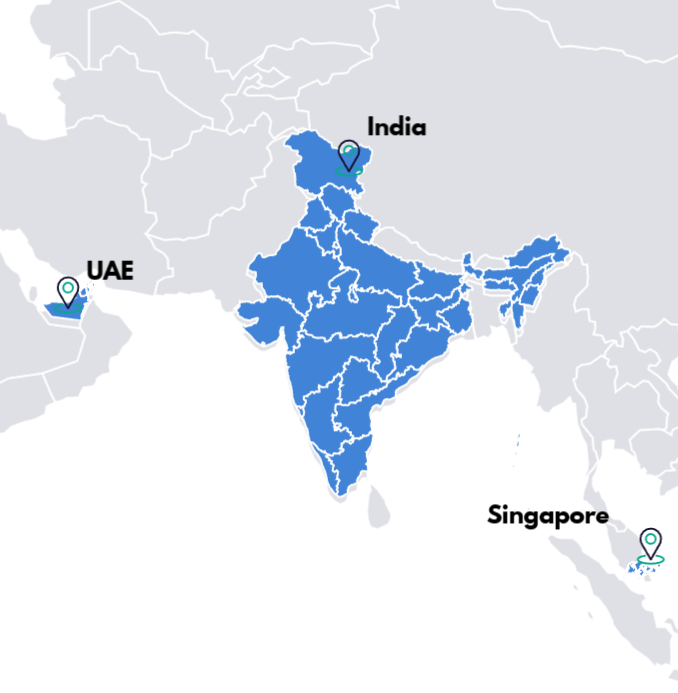
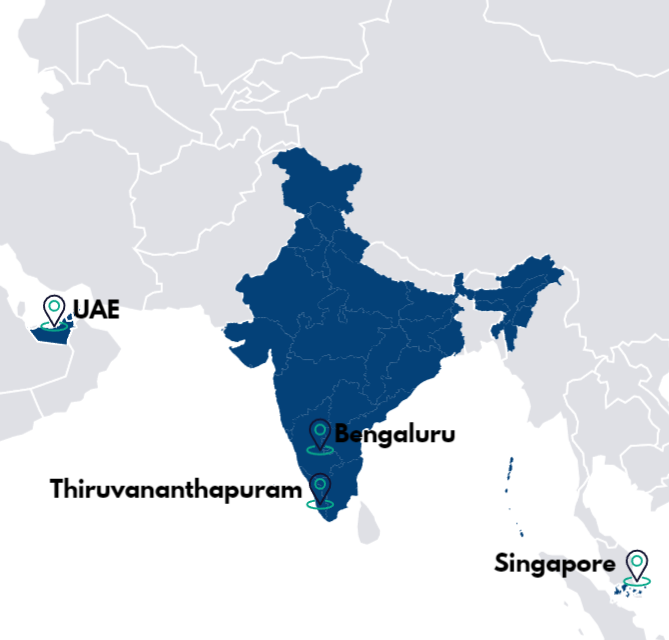
optimized website color selection

diff --git a/src/Components/Jobs.js b/src/Components/Jobs.js
@@ -20,11 +20,12 @@ class Jobs extends Component {
                                 base, we offer associates a chance to drive change and
                                 improve the lives of millions of people arount the world.
                             </div>
-                            <hr className="pb-2"></hr>
-                            <h5 style={{fontWeight: "bold"}}>India <img src='assets/images/diamond.svg' width='20px' height='20px' alt='img' /></h5>
-                            <h6 style={{textDecoration: "underline"}}>Bengaluru</h6>
-                            <h6 className="pb-3" style={{textDecoration: "underline"}}>Thiruvananthapuram</h6>
-                            <h5 className="pb-2" style={{fontWeight: "bold"}}>Singapore <img src='assets/images/diamond.svg' width='20px' height='20px' alt='img' /></h5>
+                            <hr className="pb-3"></hr>
+                            <h5 className="pb-2" style={{fontWeight: "bold"}}>India </h5>
+                            <h6><a href="#">Bengaluru<img src='assets/images/diamond.svg' width='20px' height='20px' alt='img' /></a></h6>
+                            <h6 className="pb-2"><a href="#">Thiruvananthapuram<img src='assets/images/diamond.svg' width='20px' height='20px' alt='img' /></a></h6>
+                            <h5 className="pb-2" style={{fontWeight: "bold"}}>Singapore</h5>
+                            <h6><a href="#">Singapore<img src='assets/images/diamond.svg' width='20px' height='20px' alt='img' /></a></h6>
 
                         </div>
 

diff --git a/public/assets/css/company.css b/public/assets/css/company.css
@@ -27,14 +27,6 @@
     position: relative;
 }
 
-/* Timeline CSS */
-button {
-    background: transparent;
-    border: none;
-    cursor: pointer;
-    outline: none;
-}
-
 /* .section SECTION
 –––––––––––––––––––––––––––––––––––––––––––––––––– */
 
@@ -74,8 +66,8 @@ button {
     display: inline-block;
     list-style-type: none;
     width: 200px;
-    height: 3px;
-    background: #fff;
+    height: 4px;
+    background: #034078;
 }
 
 .timeline ol li:last-child {
@@ -92,11 +84,12 @@ button {
     top: 50%;
     left: calc(100% + 1px);
     bottom: 0;
-    width: 12px;
-    height: 12px;
+    width: 15px;
+    height: 15px;
     transform: translateY(-50%);
     border-radius: 50%;
-    background: #034078;
+    background-color: white;;
+    border: 3px solid #034078;
 }
 
 .timeline ol li div {
@@ -254,7 +247,7 @@ button {
   content: '';
   position: absolute;
   width: 6px;
-  background-color: white;
+  background-color: #034078;
   top: 0;
   bottom: 0;
   left: 50%;

diff --git a/src/Components/Team.js b/src/Components/Team.js
@@ -27,7 +27,7 @@ class Team extends Component {
                                         <CImage className="carousel-img" src="assets/images/slide1.jpg" alt="slide 1" />
                                     </CCarouselItem>
                                     <CCarouselItem className="carousel-item">
-                                        <CImage className="carousel-img" src="assets/images/slide2.jpeg" alt="slide 2" />
+                                        <CImage className="carousel-img" src="assets/images/slide2.jpg" alt="slide 2" />
                                     </CCarouselItem>
                                     <CCarouselItem className="carousel-item">
                                         <CImage className="carousel-img" src='assets/images/slide3.jpg' alt="slide 3" />

diff --git a/src/Components/Contact.js b/src/Components/Contact.js
@@ -20,7 +20,7 @@ class Contact extends Component {
               </div>
 
               <div className="contact-right-side">
-                <img src="assets/images/map.png" alt="img" height="100%" width="auto"/>
+                <img src="assets/images/mapp.png" alt="img" height="100%" width="auto"/>
               </div>
 
             </div>
@@ -49,7 +49,7 @@ class Contact extends Component {
               <textarea type="text" id="message" name="message" className="form-control" />
 
               <div className="pt-3 pb-3">
-                <img src="assets/images/map.png" alt="img" width="100%" height="auto" />
+                <img src="assets/images/mapp.png" alt="img" width="100%" height="auto" />
               </div>
 
               <div>

diff --git a/public/assets/css/team.css b/public/assets/css/team.css
@@ -42,9 +42,9 @@
 }
 
 .carousel-img {
-    border-top-left-radius: 200px;
+    border-top-left-radius: 150px;
     width: auto;
-    height: auto;
+    height: 100%;
 }
 
 .CCarouselItem {

diff --git a/public/assets/css/jobs.css b/public/assets/css/jobs.css
@@ -60,6 +60,11 @@
     font-size: 16px;
 }
 
+a {
+    text-decoration: none;
+    color: black;
+}
+
 /* @media only screen and (min-width: 768px) {
 
 
